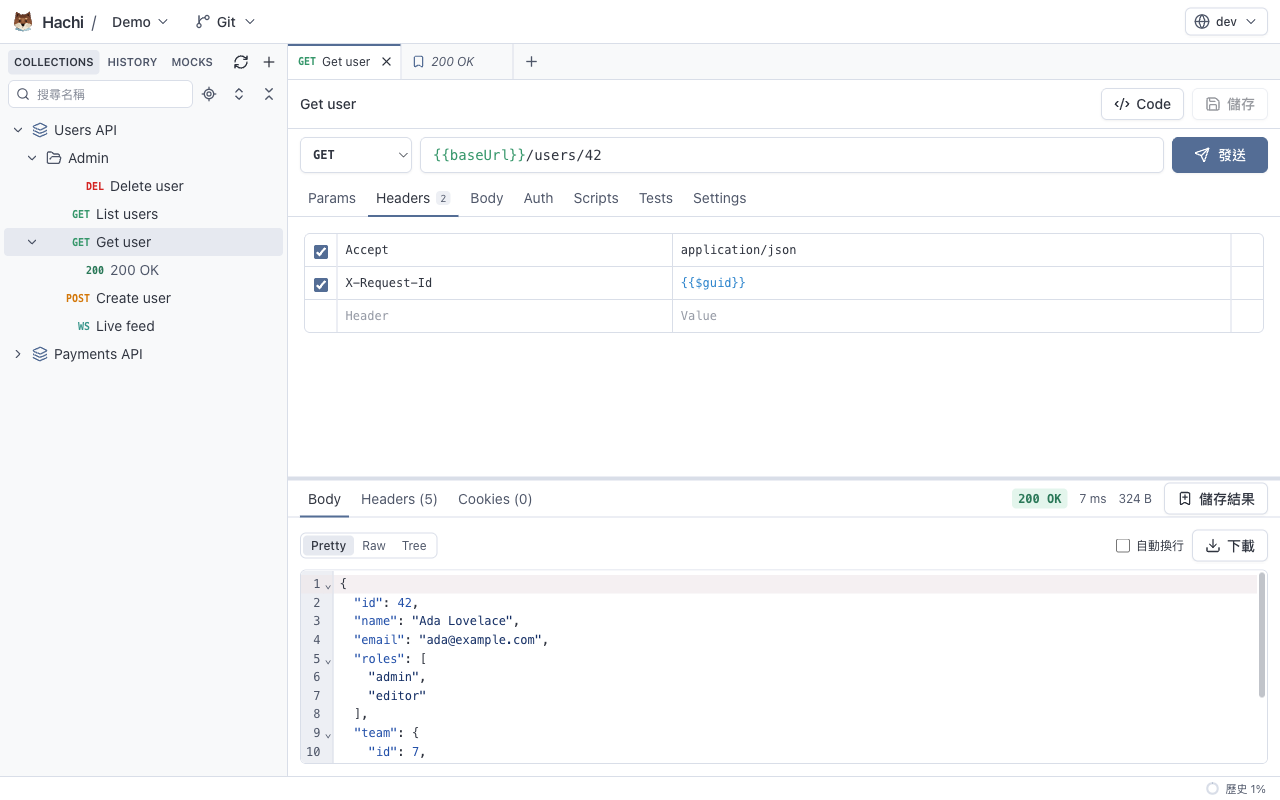
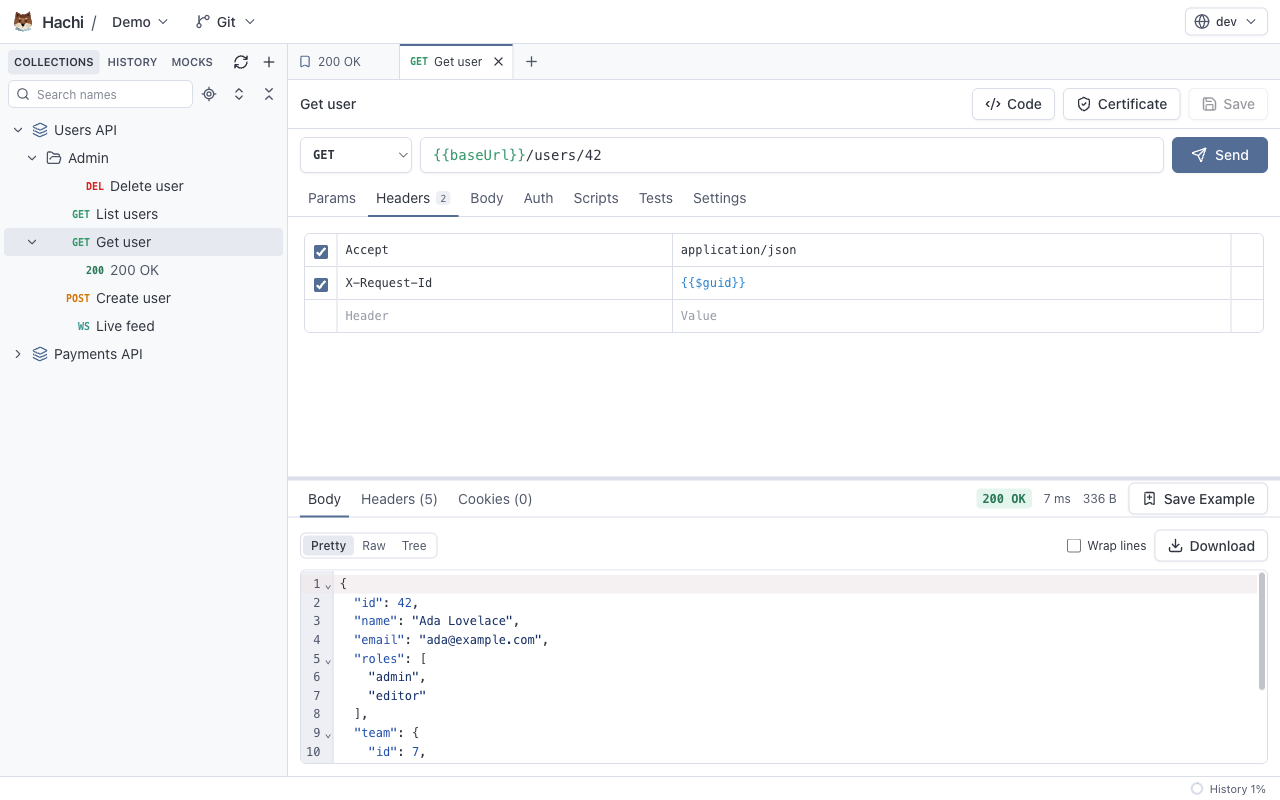
README: current screenshots (English and Chinese UI), CCADB root programs

diff --git a/README.md b/README.md
@@ -27,7 +27,7 @@ Hachi is in the spirit of Postman and Bruno: no account, no cloud, no database. 
 - **Collection Runner**: iterations or a time limit, concurrency, data files (CSV / JSON), live charts and statistics, HTML report
 - **Saved results**: keep a request and its response under the request, with secrets and credentials hidden
 - **Mock Server**: fixed HTTP routes and WebSocket endpoints served from your Workspace
-- **Cookie jar** and **TLS certificate checks**: chain diagnosis, and whether Mozilla, macOS / iOS and Windows trust a server
+- **Cookie jar** and **TLS certificate checks**: chain diagnosis, whether Mozilla, macOS / iOS and Windows trust a server, and its root’s status in the Apple, Chrome, Microsoft and Mozilla root programs (CCADB)
 - **Import / export**: Postman and Bruno (`.bru` and YAML) both ways, cURL import, OpenAPI 3.0 export (HTML / JSON), code generation (cURL, fetch, axios, Python requests)
 - **Git**: commit, pull / push, conflict resolution and history inside the app
 
